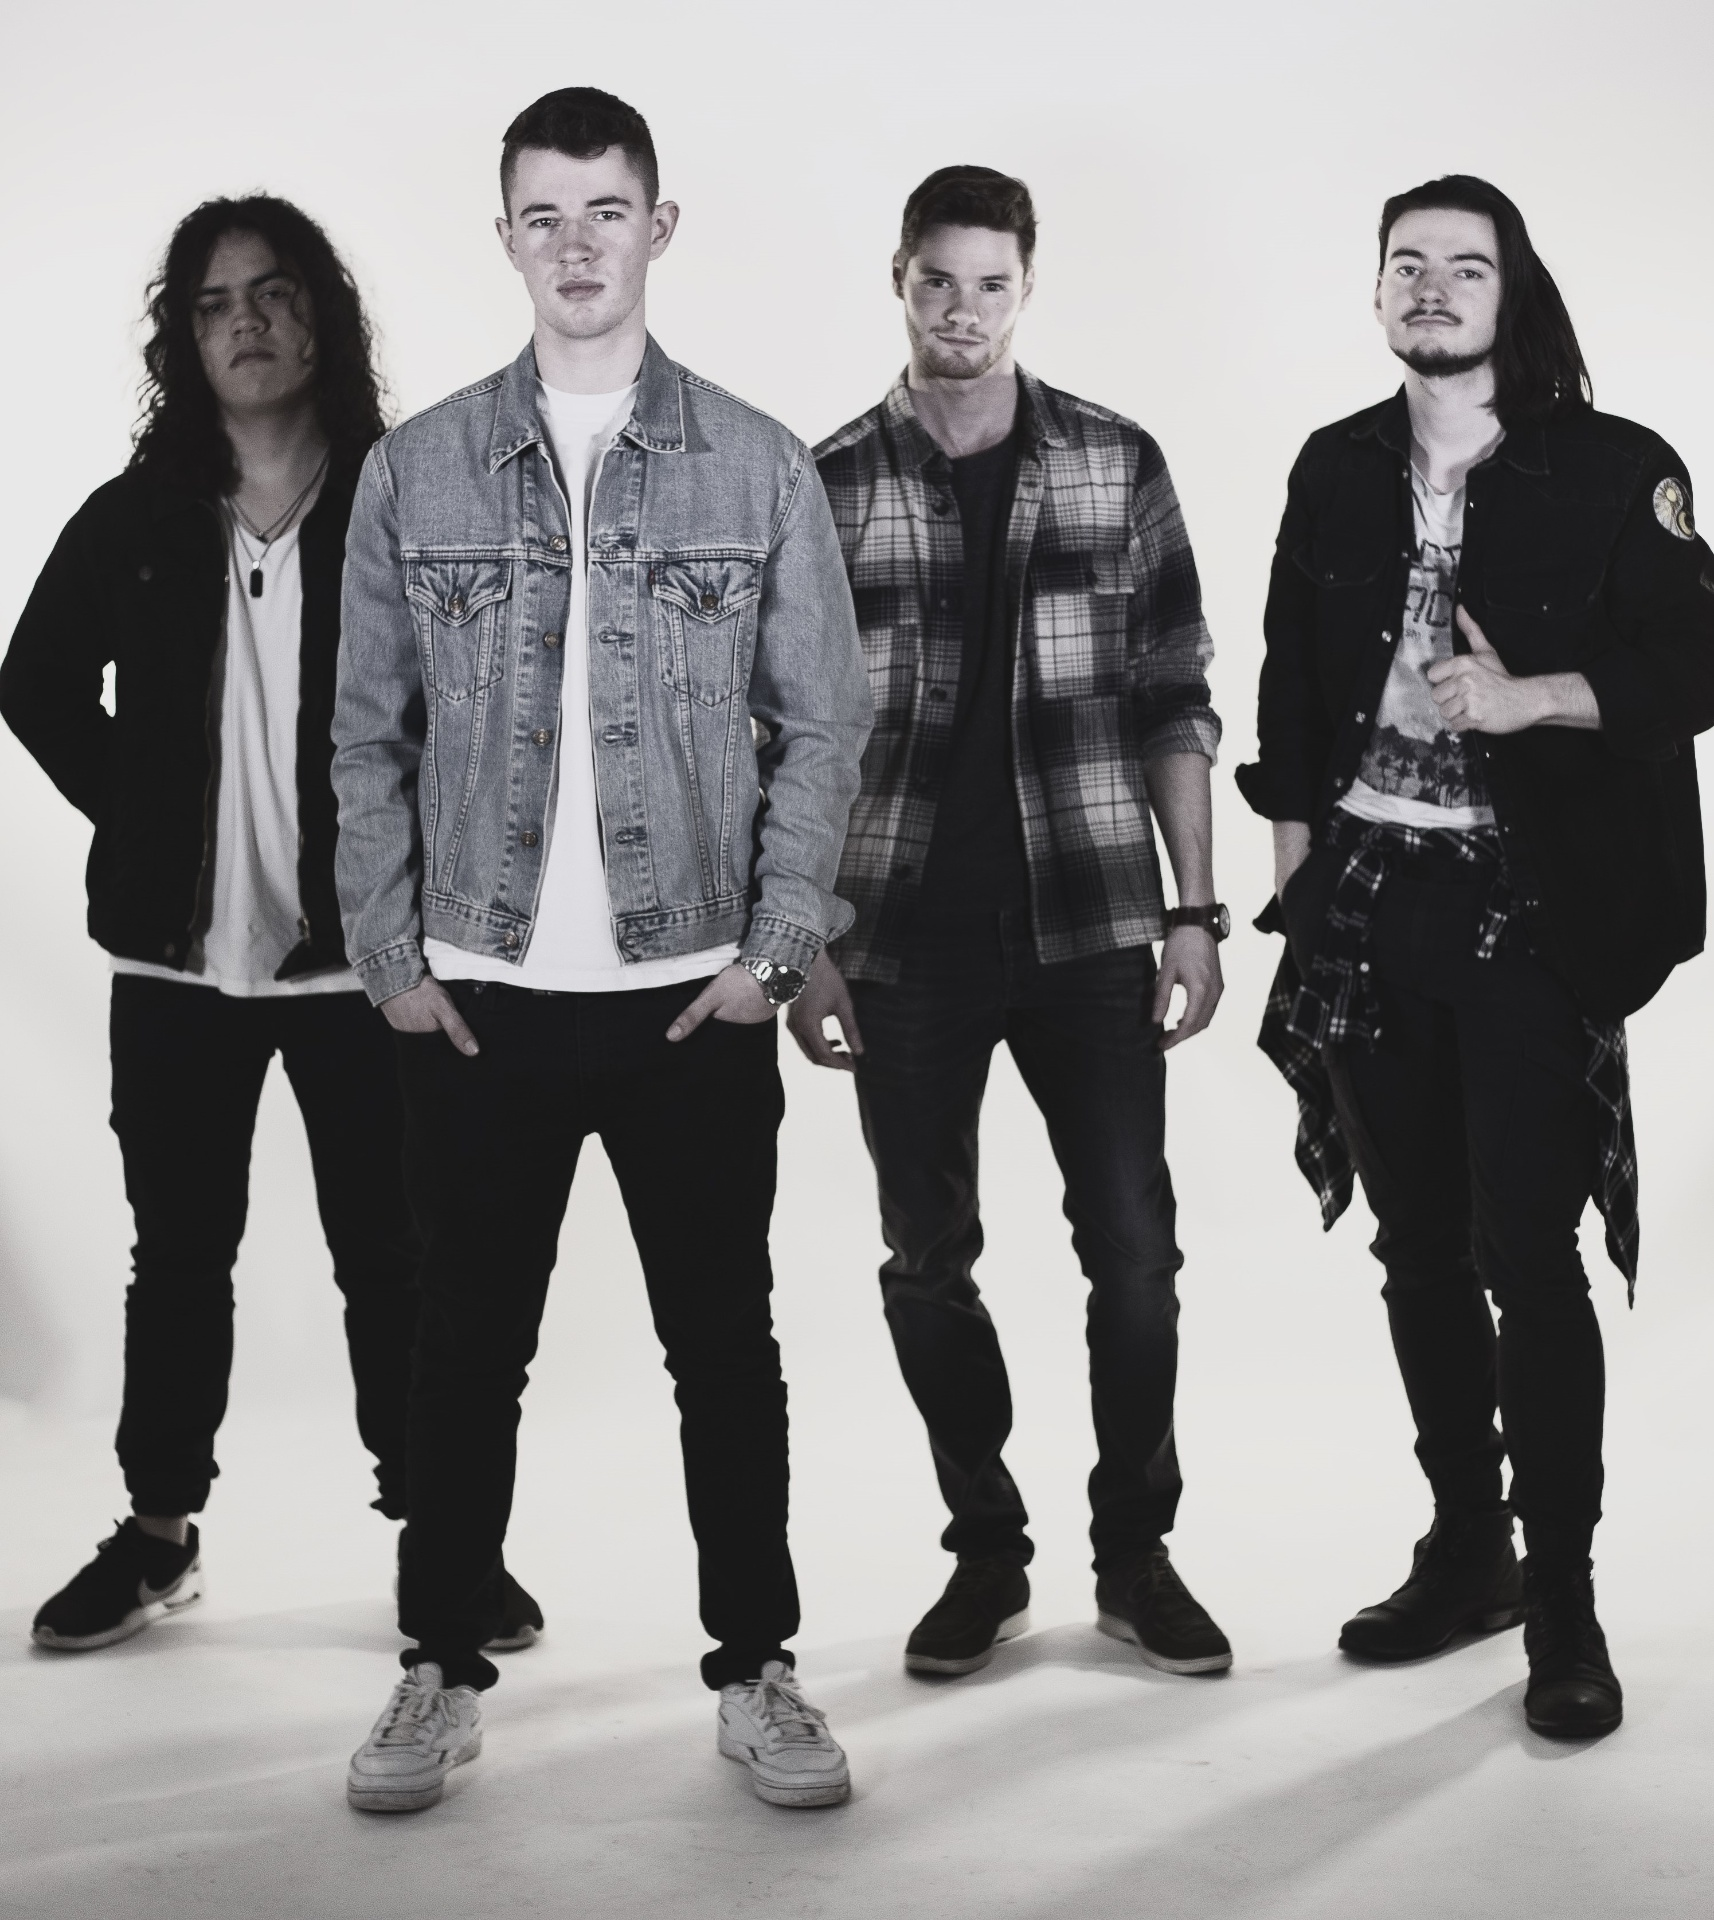
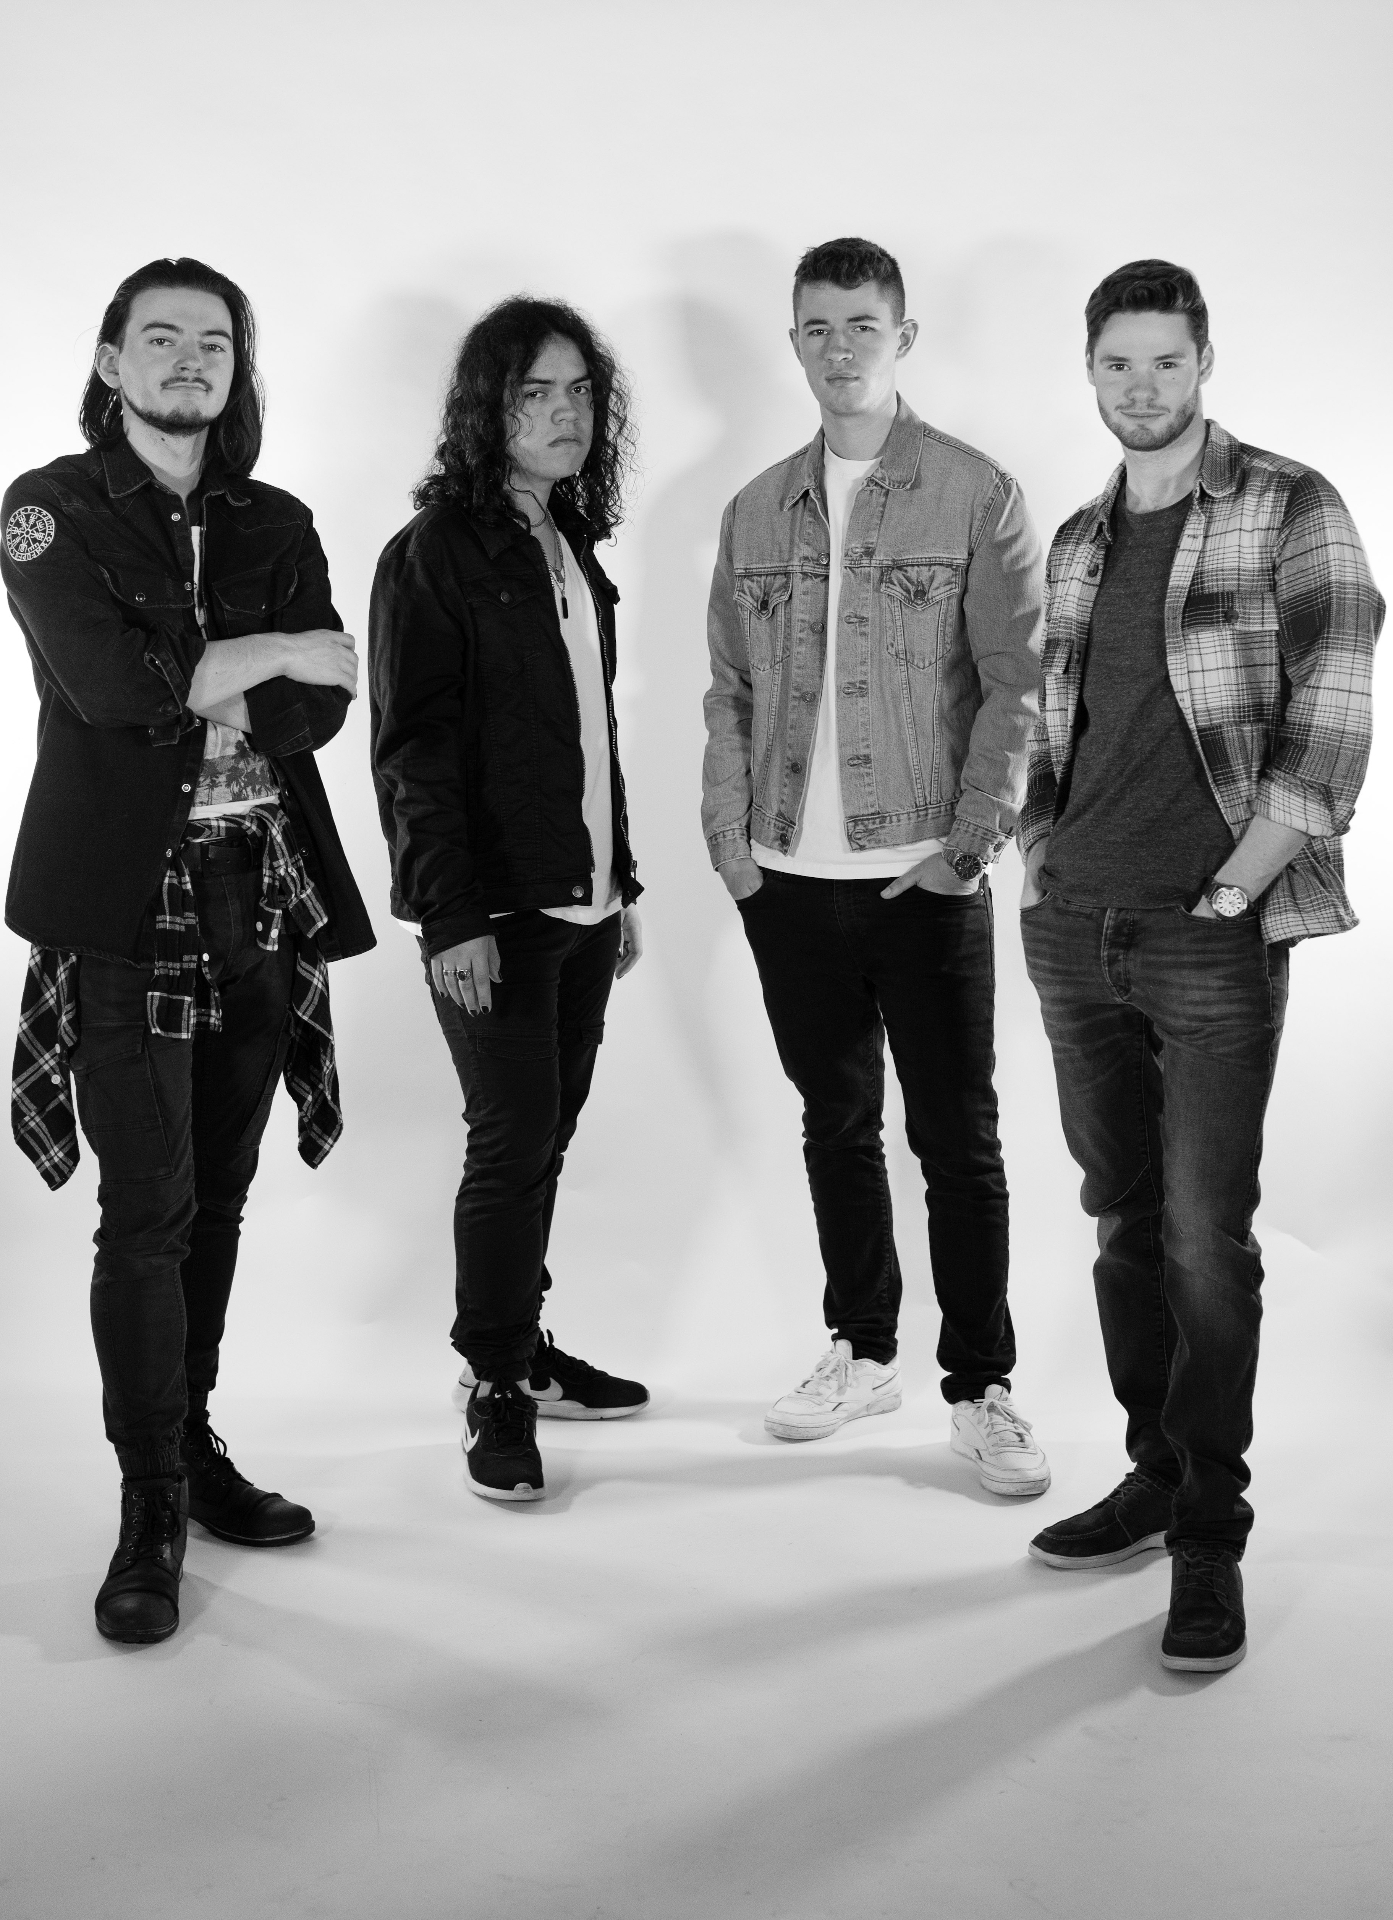
Changes

diff --git a/src/components/ArtistImageCarousel.tsx b/src/components/ArtistImageCarousel.tsx
@@ -95,7 +95,7 @@ const ArtistImageCarousel = ({ images, artistName }: ArtistImageCarouselProps) =
       {showLeftArrow && (
         <button
           onClick={goToPrevious}
-          className="absolute left-3 top-1/2 -translate-y-1/2 w-10 h-10 flex items-center justify-center text-foreground/60 hover:text-foreground rounded-full transition-all duration-300 hover:bg-background/40 hover:ring-2 hover:ring-foreground/30"
+          className="absolute left-3 top-1/2 -translate-y-1/2 w-10 h-10 flex items-center justify-center text-foreground/60 hover:text-foreground bg-background/20 rounded-full transition-all duration-300 hover:bg-background/40 hover:ring-2 hover:ring-foreground/30"
           aria-label="Previous image"
         >
           <ChevronLeft size={24} />
@@ -106,7 +106,7 @@ const ArtistImageCarousel = ({ images, artistName }: ArtistImageCarouselProps) =
       {showRightArrow && (
         <button
           onClick={goToNext}
-          className="absolute right-3 top-1/2 -translate-y-1/2 w-10 h-10 flex items-center justify-center text-foreground/60 hover:text-foreground rounded-full transition-all duration-300 hover:bg-background/40 hover:ring-2 hover:ring-foreground/30"
+          className="absolute right-3 top-1/2 -translate-y-1/2 w-10 h-10 flex items-center justify-center text-foreground/60 hover:text-foreground bg-background/20 rounded-full transition-all duration-300 hover:bg-background/40 hover:ring-2 hover:ring-foreground/30"
           aria-label="Next image"
         >
           <ChevronRight size={24} />

diff --git a/src/pages/ArtistDetail.tsx b/src/pages/ArtistDetail.tsx
@@ -7,8 +7,7 @@ import { motion } from "framer-motion";
 import { ArrowLeft, Instagram } from "lucide-react";
 
 // Breaking Out images
-import breakingOut1 from "@/assets/breaking-out-1.jpg";
-import breakingOut2 from "@/assets/breaking-out-2.jpg";
+import breakingOutNew from "@/assets/breaking-out-new.jpg";
 import breakingOut3 from "@/assets/breaking-out-3.jpg";
 import breakingOut4 from "@/assets/breaking-out-4.jpg";
 import breakingOut5 from "@/assets/breaking-out-5.jpg";
@@ -47,8 +46,7 @@ This isn't just a rock band. It's an explosion of guitars, a rush of adrenaline,
 The band's live shows have quickly earned them a reputation for intensity and authenticity. From intimate club shows to festival stages, Breaking Out delivers performances that connect genuinely, powerfully, and memorably.`,
     spotifyEmbed: "https://open.spotify.com/embed/artist/7BGqlvWx2XZ5oEvWdUprev?utm_source=generator&theme=0",
     images: [
-      breakingOut1,
-      breakingOut2,
+      breakingOutNew,
       breakingOut3,
       breakingOut4,
       breakingOut5,

diff --git a/src/components/Footer.tsx b/src/components/Footer.tsx
@@ -14,7 +14,7 @@ const Footer = () => {
         <div className="grid grid-cols-1 md:grid-cols-12 gap-12 md:gap-8 items-start">
           {/* Brand - 3 columns */}
           <div className="flex flex-col md:col-span-3">
-            <img src={logoFooter} alt="Coopers Booking" className="h-16 md:h-20 w-auto object-contain object-left mb-4" />
+            <img src={logoFooter} alt="Coopers Booking" className="h-20 md:h-28 w-auto object-contain object-left mb-4" />
             <p className="body-sm max-w-xs">
               Boutique booking & management for emerging bands.
             </p>

diff --git a/src/components/home/ApproachSection.tsx b/src/components/home/ApproachSection.tsx
@@ -11,9 +11,6 @@ const values = [{
   name: "Local",
   description: "Rooted in Belgium, connected across Europe. We understand the regional landscapes that matter."
 }, {
-  name: "Serious",
-  description: "Professional, reliable, and committed. We treat every show and every artist with the respect they deserve."
-}, {
   name: "Action-driven",
   description: "No bloated teams or corporate overhead. Direct communication and fast, thoughtful action."
 }];

diff --git a/src/components/home/ArtistsSection.tsx b/src/components/home/ArtistsSection.tsx
@@ -1,7 +1,7 @@
 import { Link } from "react-router-dom";
 import AnimatedSection from "../AnimatedSection";
 import ScrollArrow from "../ScrollArrow";
-import artistImage from "@/assets/breaking-out-1.jpg";
+import artistImage from "@/assets/breaking-out-new.jpg";
 import ulysseImage from "@/assets/ulysse-ponce.jpg";
 
 const artists = [
